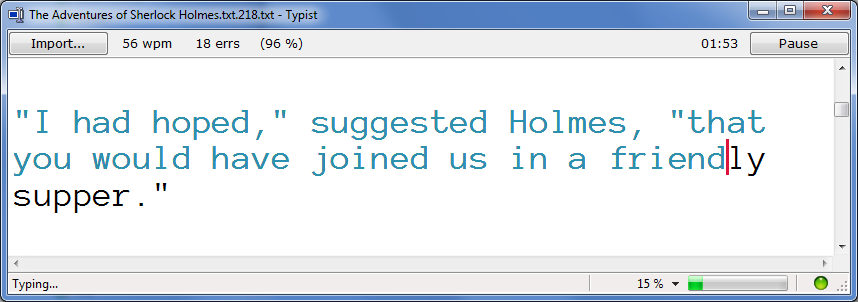
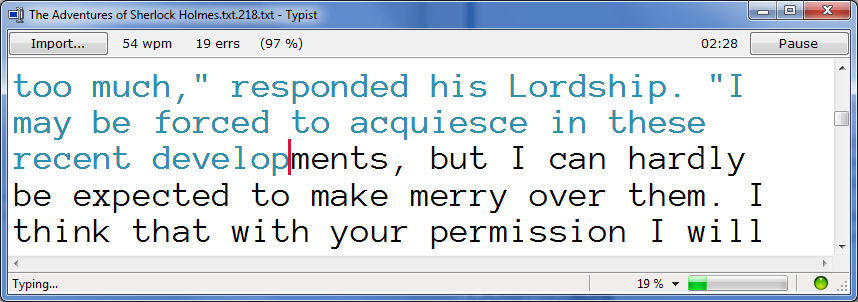
Add new screenshots (source code, special chars). Modify README.

diff --git a/Readme.md b/Readme.md
@@ -7,9 +7,13 @@ This is a little app that helps you improve your typing skills, including:
 * proficiency on specific types of text (e.g., programming language source code)
 * speed on specific types of characters (e.g., numbers, symbols)
 
-![Screenshot](https://raw.github.com/aistrate/TypingPractice/master/Screenshot02.png "Screenshot")
+![Normal text](https://raw.github.com/aistrate/TypingPractice/master/Screenshot01.png "Normal text")
 
-It includes a couple of practice text generators (import from Wikipedia articles, import from source code, generation of random characters). These will allow you to practice on a variety of texts of your own choosing.
+![Source code](https://raw.github.com/aistrate/TypingPractice/master/Screenshot02.png "Source code")
+
+![Special characters](https://raw.github.com/aistrate/TypingPractice/master/Screenshot03.png "Special characters")
+
+It also includes a couple of practice text generators (import from Wikipedia articles, import from source code, generation of random characters). These will allow you to practice on a variety of texts of your own choosing.
 
 
 Downloads
